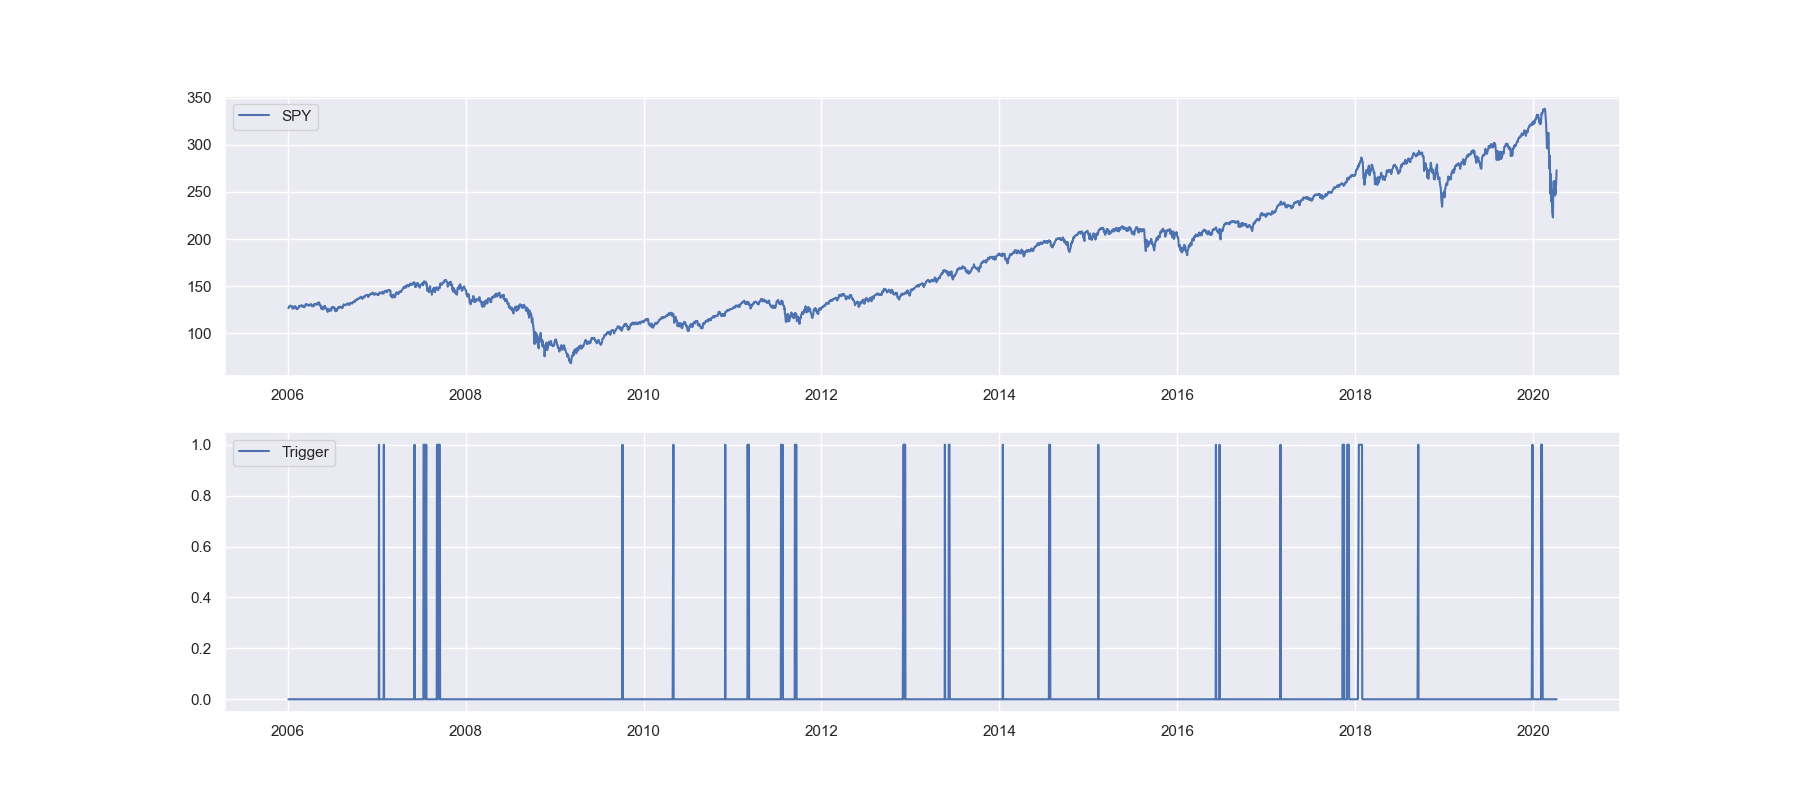
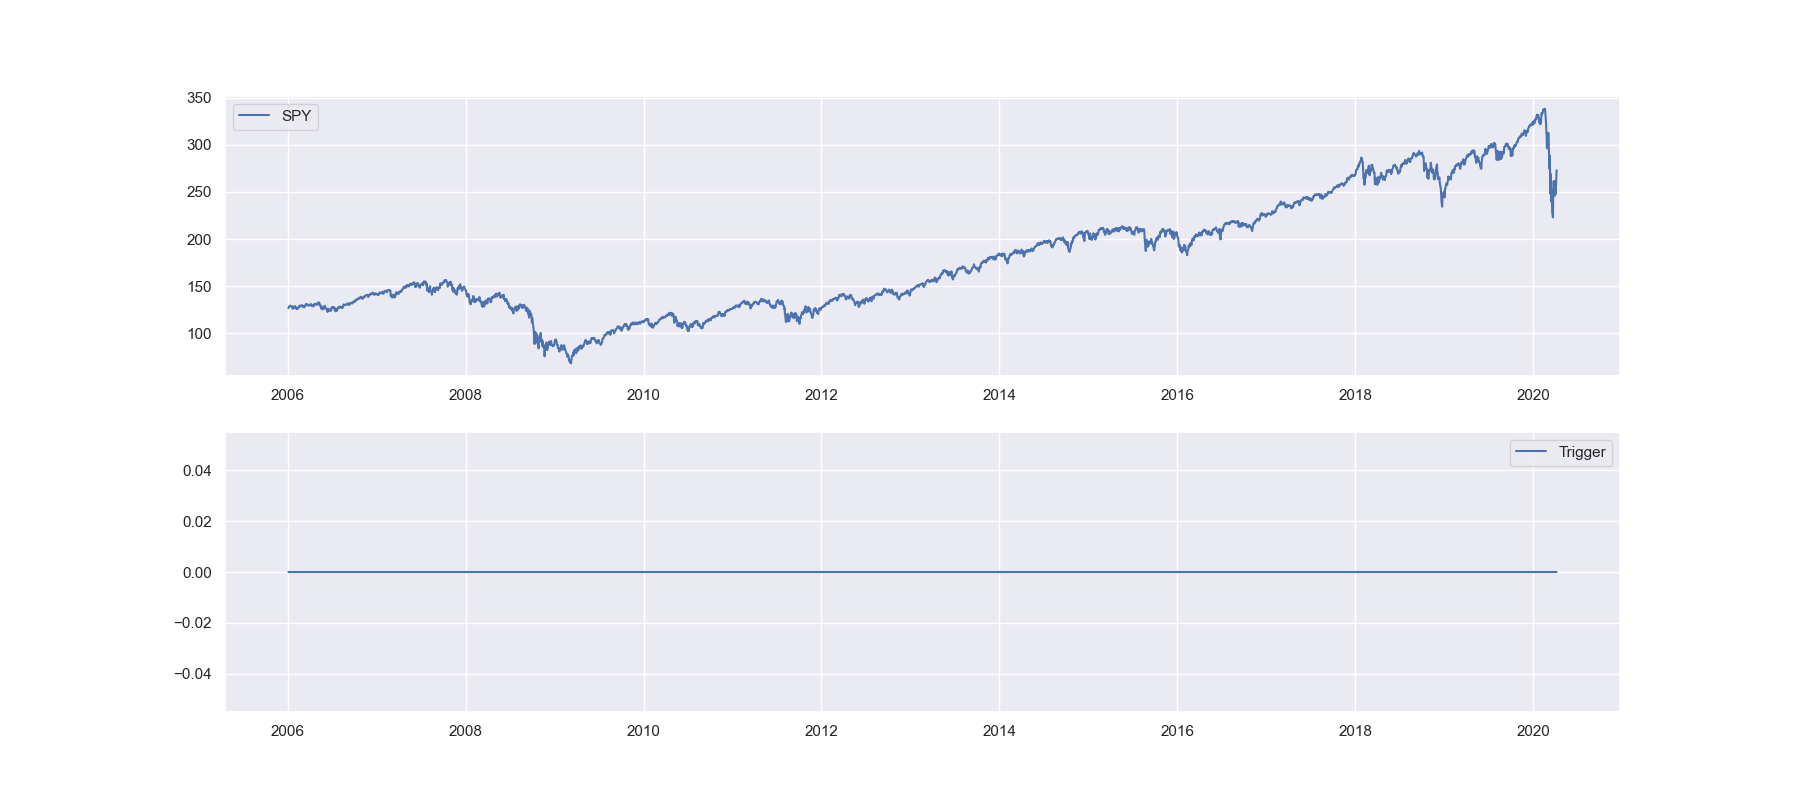
.

diff --git a/strategy.py b/strategy.py
@@ -74,11 +74,19 @@ class strategy():
 
 	# various methos
 	def checkConditions(self):
-		for cmd in self.condition['condition']:
-			if eval(cmd) == False: return False
-		return True
-	def execStrategy(self):
-		for cmd in self.execute['command']: exec(cmd)
+		for condid in self.condition.index.unique():
+			condcnt = len(self.condition.loc[condid]['condition'])
+			for cond in self.condition.loc[condid]['condition']:
+				if eval(cond) == True:
+					condcnt -= 1
+					if condcnt == 0: self.execStrategy(condid)
+					continue
+				break
+	def execStrategy(self, condid):
+		tmp = self.trigger.loc[self.date]['trigger']
+		if type(tmp) is list: tmp.append(condid)
+		else: tmp = [condid]
+		for cmd in self.execute.loc[[condid]]['command']: eval(cmd)
 	def indicatorRow(self, column):
 		if self.indicator is not None:
 			if column in self.indicator.columns:
@@ -94,7 +102,7 @@ class strategy():
 		fig, ax = plt.subplots(nrows=2, figsize=(18,8))
 		ax[0].plot(self.stock.index, self.stock['close'], label='SPY')
 		ax[0].legend()
-		ax[1].plot(self.stock.index, self.trigger['trigger'], label='Trigger')
+		ax[1].plot(self.trigger.index, self.trigger['trigger'], kind='point', label='Trigger')
 		ax[1].legend()
 
 		plt.savefig('fig')
@@ -110,6 +118,4 @@ class strategy():
 		self.doneStrategy()
 	def runDate(self, date):
 		self.date = date
-		if self.checkConditions():
-			self.trigger.loc[date]['trigger'] = 1
-			self.execStrategy()
+		self.checkConditions()

diff --git a/script.py b/script.py
@@ -21,11 +21,11 @@ strat = strategy()
 strat.setStock(stock)
 #strat.setOption(option)
 strat.setIndicator(ind)
-#strat.addCondition('date', "self.newWeek()")
-strat.addCondition('ivrank', "self.indicatorRow('ivrank1') > 50")
-strat.addCondition('direction', "self.indicatorRow('ma1') > self.indicatorRow('ma2')")
-strat.addCondition('overunder', "self.stockRow('close') > self.indicatorRow('ma1')")
-strat.addExecution('info', "showMe(self.metadata.name, self.date)")
+strat.addCondition('option', "self.newWeek()")
+strat.addCondition('option', "self.indicatorRow('ivrank1') > 50")
+strat.addCondition('option', "self.indicatorRow('ma1') > self.indicatorRow('ma2')")
+strat.addCondition('option', "self.stockRow('close') > self.indicatorRow('ma1')")
+strat.addExecution('option', "showMe(self.metadata.name, self.date)")
 strat.runDates(enddate='2020-04-01')
 
 

diff --git a/position.py b/position.py
@@ -13,3 +13,4 @@ class position():
 
 	def __init__(self):
 		self.metadata = self.metadata(getnextid('position'))
+		self.legs = []
